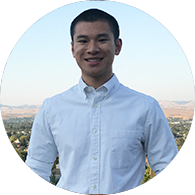
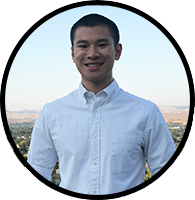
Profile photo adjustments with mouseover

diff --git a/index.html b/index.html
@@ -69,7 +69,7 @@ http://www.templatemo.com/tm-505-stacked
                               </div>
                             </div>
                             <div class="right-image">
-                              <img src="img/wilson.png" alt="">
+                              <img src="img/wilson.png" onmouseover="src='img/Broadsword.png'" onmouseout="src='img/wilson.png'">
                             </div>
                           </div>
                         </div>

diff --git a/css/templatemo-style.css b/css/templatemo-style.css
@@ -360,6 +360,9 @@ ul {
 	float: right;
 }
 
+.home-content .right-image :hover{
+  background: url("img/Broadsword.jpg") no-repeat;
+}
 
 
 /*
